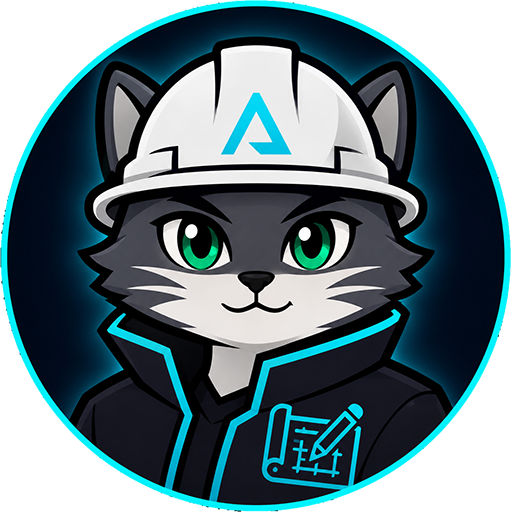
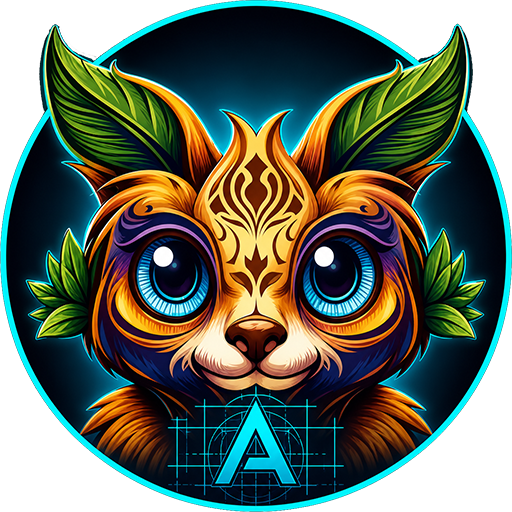
admin 4

diff --git a/admin.html b/admin.html
@@ -1005,6 +1005,132 @@
 
     .admin-list-line small{color:var(--muted);font-size:12px}
 
+
+
+    .command-grid{
+      display:grid;
+      grid-template-columns:minmax(0,1fr) minmax(320px,.85fr);
+      gap:18px;
+      margin-top:18px;
+      align-items:start;
+    }
+
+    .activity-feed{
+      display:grid;
+      gap:10px;
+    }
+
+    .activity-item{
+      display:grid;
+      grid-template-columns:auto minmax(0,1fr) auto;
+      gap:12px;
+      align-items:center;
+      border:1px solid rgba(255,255,255,.08);
+      border-radius:16px;
+      background:linear-gradient(135deg, rgba(255,255,255,.04), rgba(139,44,255,.045));
+      padding:13px 14px;
+    }
+
+    .activity-icon{
+      width:38px;
+      height:38px;
+      display:grid;
+      place-items:center;
+      border:1px solid rgba(195,77,255,.22);
+      border-radius:14px;
+      background:rgba(139,44,255,.12);
+      filter:drop-shadow(0 0 10px rgba(139,44,255,.20));
+    }
+
+    .activity-main strong{
+      display:block;
+      color:#fff;
+      font-size:14px;
+      line-height:1.35;
+    }
+
+    .activity-main span{
+      display:block;
+      margin-top:3px;
+      color:var(--muted);
+      font-size:12px;
+      line-height:1.35;
+    }
+
+    .activity-time{
+      color:var(--muted);
+      font-size:11px;
+      white-space:nowrap;
+    }
+
+    .quick-actions{
+      display:grid;
+      gap:10px;
+    }
+
+    .quick-action{
+      width:100%;
+      display:flex;
+      justify-content:space-between;
+      align-items:center;
+      gap:12px;
+      border:1px solid rgba(255,255,255,.08);
+      border-radius:15px;
+      background:rgba(255,255,255,.035);
+      color:#fff;
+      padding:13px 14px;
+      font:inherit;
+      font-weight:850;
+      cursor:pointer;
+      transition:.2s ease;
+    }
+
+    .quick-action:hover{
+      border-color:rgba(195,77,255,.42);
+      background:rgba(139,44,255,.13);
+      transform:translateY(-1px);
+      box-shadow:0 0 24px rgba(139,44,255,.12);
+    }
+
+    .quick-action small{
+      color:var(--muted);
+      font-size:11px;
+      font-weight:900;
+      text-transform:uppercase;
+      letter-spacing:.06em;
+    }
+
+    .since-grid{
+      display:grid;
+      grid-template-columns:repeat(3, minmax(0,1fr));
+      gap:10px;
+      margin-top:12px;
+    }
+
+    .since-card{
+      border:1px solid rgba(255,255,255,.08);
+      border-radius:15px;
+      background:rgba(255,255,255,.035);
+      padding:13px;
+    }
+
+    .since-card span{
+      display:block;
+      color:var(--muted);
+      font-size:11px;
+      font-weight:900;
+      letter-spacing:.08em;
+      text-transform:uppercase;
+      margin-bottom:8px;
+    }
+
+    .since-card strong{
+      display:block;
+      color:#fff;
+      font-size:28px;
+      line-height:1;
+    }
+
     .admin-setting-list{
       display:grid;
       gap:12px;
@@ -1065,6 +1191,8 @@
       .community-ban-grid{grid-template-columns:1fr}
       .admin-mini-grid{grid-template-columns:1fr}
       .admin-two-cols{grid-template-columns:1fr}
+      .command-grid{grid-template-columns:1fr}
+      .since-grid{grid-template-columns:1fr}
       .admin-setting-row{grid-template-columns:1fr}
     }
   </style>
@@ -1162,6 +1290,32 @@
                 <div class="system-line"><span>Catalogue local</span><b class="status-pill">Actif</b></div>
                 <div class="system-line"><span>Turnstile</span><b class="status-pill">Protégé</b></div>
                 <div class="system-line"><span>Hall du cinéma</span><b class="status-pill">Prêt</b></div>
+              </div>
+            </aside>
+          </div>
+
+          <div class="command-grid">
+            <section class="admin-box">
+              <h2>Activité récente</h2>
+              <p>Les dernières traces laissées dans la station : critiques, arrivées et alertes. Le cockpit commence à avoir des oreilles.</p>
+              <div class="activity-feed" id="adminActivityFeed">
+                <div class="admin-empty">Chargement de l’activité récente…</div>
+              </div>
+            </section>
+
+            <aside class="admin-box">
+              <h2>Accès rapides</h2>
+              <p>Des raccourcis pour éviter de traverser trois sas juste pour ouvrir le catalogue.</p>
+              <div class="quick-actions">
+                <button class="quick-action" type="button" data-admin-jump="catalogue"><span>📽 Ouvrir le catalogue</span><small>Gestion</small></button>
+                <button class="quick-action" type="button" data-admin-jump="communaute"><span>👥 Voir la communauté</span><small>Staff</small></button>
+                <button class="quick-action" type="button" data-admin-jump="signalements"><span>🚩 Traiter les signalements</span><small>Modération</small></button>
+                <button class="quick-action" type="button" data-admin-jump="stats"><span>📊 Lire les statistiques</span><small>Données</small></button>
+              </div>
+              <div class="since-grid" aria-label="Résumé depuis la dernière visite">
+                <div class="since-card"><span>Critiques</span><strong id="sinceComments">—</strong></div>
+                <div class="since-card"><span>Membres</span><strong id="sinceViewers">—</strong></div>
+                <div class="since-card"><span>Alertes</span><strong id="sinceReports">—</strong></div>
               </div>
             </aside>
           </div>
@@ -1511,6 +1665,87 @@
     }
 
 
+
+
+    async function hydrateAdminActivity(){
+      const feed = document.getElementById('adminActivityFeed');
+      const setText = (id, value) => { const el = document.getElementById(id); if(el) el.textContent = value; };
+      const safe = (value) => String(value ?? '').replace(/[&<>"']/g, c => ({'&':'&amp;','<':'&lt;','>':'&gt;','"':'&quot;',"'":'&#039;'}[c]));
+      const lastVisitKey = 'planetestream.admin.lastVisit';
+      const previousVisit = localStorage.getItem(lastVisitKey) || new Date(Date.now() - 24 * 60 * 60 * 1000).toISOString();
+      const now = new Date().toISOString();
+
+      function timeAgo(value){
+        if(!value) return '—';
+        const date = new Date(value);
+        if(Number.isNaN(date.getTime())) return '—';
+        const diff = Math.max(0, Date.now() - date.getTime());
+        const min = Math.floor(diff / 60000);
+        if(min < 1) return 'à l’instant';
+        if(min < 60) return `${min} min`;
+        const hours = Math.floor(min / 60);
+        if(hours < 24) return `${hours} h`;
+        const days = Math.floor(hours / 24);
+        return `${days} j`;
+      }
+
+      function item(icon, title, subtitle, date){
+        return `<article class="activity-item"><span class="activity-icon">${icon}</span><span class="activity-main"><strong>${safe(title)}</strong><span>${safe(subtitle)}</span></span><small class="activity-time">${safe(timeAgo(date))}</small></article>`;
+      }
+
+      try{
+        await window.PS?.ready;
+        const ps = window.PS || window.PSAuth;
+        const supabase = window.PS?.supabase;
+        if(!supabase) throw new Error('Supabase indisponible');
+
+        const [comments, viewers, reports] = await Promise.allSettled([
+          supabase.from('comments').select('id,movie_id,display_name,comment,created_at').order('created_at', {ascending:false}).limit(5),
+          supabase.from('viewers').select('id,pseudo,created_at').order('created_at', {ascending:false}).limit(5),
+          supabase.from('reports').select('id,reason,status,created_at').order('created_at', {ascending:false}).limit(5)
+        ]);
+
+        const commentRows = comments.status === 'fulfilled' && !comments.value.error ? (comments.value.data || []) : [];
+        const viewerRows = viewers.status === 'fulfilled' && !viewers.value.error ? (viewers.value.data || []) : [];
+        const reportRows = reports.status === 'fulfilled' && !reports.value.error ? (reports.value.data || []) : [];
+
+        const recent = [
+          ...commentRows.map(row => ({type:'comment', date:row.created_at, html:item('💬', `${row.display_name || 'Un Planétien'} a publié une critique`, `${row.movie_id || 'Film'} · ${shorten(row.comment, 78)}`, row.created_at)})),
+          ...viewerRows.map(row => ({type:'viewer', date:row.created_at, html:item('👤', `${row.pseudo || 'Nouveau membre'} a rejoint la station`, 'Nouvelle arrivée dans l’orbite', row.created_at)})),
+          ...reportRows.map(row => ({type:'report', date:row.created_at, html:item('🚩', `Signalement ${String(row.status || 'new') === 'new' ? 'ouvert' : 'mis à jour'}`, row.reason || 'Motif non renseigné', row.created_at)}))
+        ].sort((a,b) => new Date(b.date || 0) - new Date(a.date || 0)).slice(0,8);
+
+        if(feed){
+          feed.innerHTML = recent.length ? recent.map(entry => entry.html).join('') : '<div class="admin-empty">Aucune activité récente. La station flotte tranquillement, presque trop sagement.</div>';
+        }
+
+        const since = (rows) => rows.filter(row => row.created_at && new Date(row.created_at) > new Date(previousVisit)).length;
+        setText('sinceComments', since(commentRows));
+        setText('sinceViewers', since(viewerRows));
+        setText('sinceReports', since(reportRows));
+
+        const log = document.getElementById('captainLog');
+        if(log){
+          const previousText = new Date(previousVisit).toLocaleString('fr-FR', {day:'2-digit', month:'short', hour:'2-digit', minute:'2-digit'});
+          const extra = `<div class="captain-line"><span>Dernier passage enregistré : ${safe(previousText)}.</span><small>Mémoire</small></div>`;
+          log.insertAdjacentHTML('beforeend', extra);
+        }
+
+        localStorage.setItem(lastVisitKey, now);
+      }catch(error){
+        console.warn('Activité admin partielle', error);
+        if(feed) feed.innerHTML = '<div class="admin-empty">Activité récente indisponible pour le moment. Le radar fait semblant de dormir.</div>';
+        setText('sinceComments', '—');
+        setText('sinceViewers', '—');
+        setText('sinceReports', '—');
+      }
+
+      function shorten(text='', limit=80){
+        const clean = String(text || '').replace(/\s+/g, ' ').trim();
+        return clean.length > limit ? `${clean.slice(0, limit - 1)}…` : clean || 'Message sans texte';
+      }
+    }
+
     async function hydrateAdminStats(){
       const setText = (id, value) => { const el = document.getElementById(id); if(el) el.textContent = value; };
       const safe = (value) => String(value ?? '').replace(/[&<>"]/g, c => ({'&':'&amp;','<':'&lt;','>':'&gt;','"':'&quot;'}[c]));
@@ -1580,9 +1815,9 @@
     });
 
     if (document.body?.classList.contains('admin-locked')) {
-      window.addEventListener('ps:admin-access-granted', hydrateAdminDashboard, {once:true});
+      window.addEventListener('ps:admin-access-granted', async () => { await hydrateAdminDashboard(); hydrateAdminActivity(); }, {once:true});
     } else {
-      hydrateAdminDashboard();
+      hydrateAdminDashboard().then(hydrateAdminActivity);
     }
 
     (() => {
@@ -1604,6 +1839,10 @@
       }
 
       initAnnouncementPreview();
+
+      document.querySelectorAll('[data-admin-jump]').forEach((button) => {
+        button.addEventListener('click', () => showAdminModule(button.dataset.adminJump));
+      });
 
       tabs.forEach((tab) => {
         tab.addEventListener('click', () => showAdminModule(tab.dataset.adminTab));